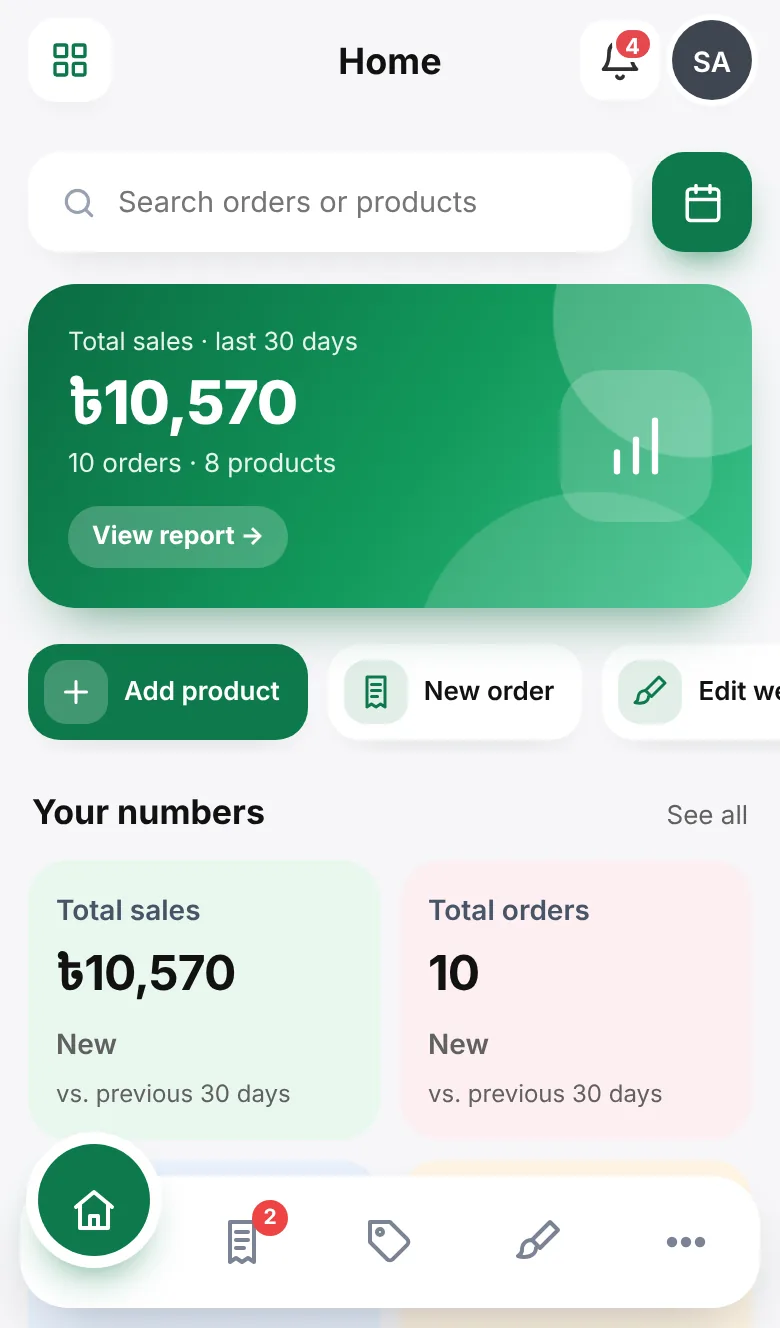
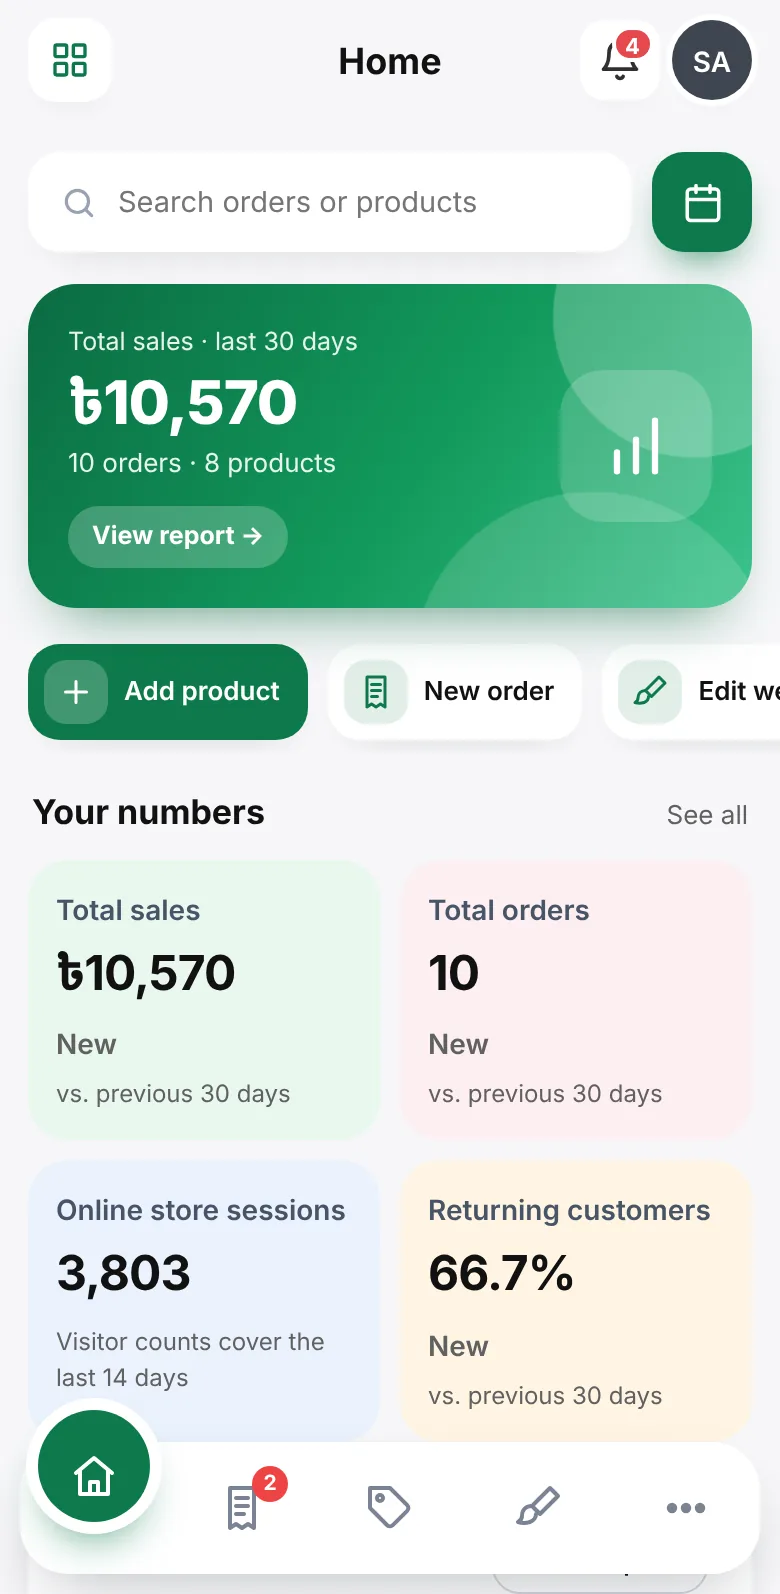
Home showcase: real iPhone-shaped phone; side by side on desktop, stacked on phones
Claude-Session: https://claude.ai/code/session_01R3uzDZf54dpsWCJGHMkyhq

diff --git a/src/styles/main.css b/src/styles/main.css
@@ -222,11 +222,16 @@ button { font: inherit; cursor: pointer; }
 
 /* dashboard */
 /* The dashboard on a computer (left) and on a phone (right, overlapping it) */
-.dash { position: absolute; left: 0; right: 200px; top: 6px; height: 418px; overflow: hidden; z-index: 1; background: #f9fafb; }
-.device-phone { position: absolute; right: 24px; top: -18px; z-index: 3; width: 214px; padding: 9px; border-radius: 38px; background: #12151c;
+.dash { position: absolute; left: 0; right: 232px; top: 6px; height: 418px; overflow: hidden; z-index: 1; background: #f9fafb; }
+/* An iPhone-shaped frame (19.5:9) beside the desktop shot */
+.device-phone { position: absolute; right: 0; top: -14px; z-index: 3; width: 206px; padding: 8px; border-radius: 40px; background: #12151c;
   box-shadow: 0 0 0 2px #2b303b inset, 0 30px 60px -20px rgba(16, 24, 40, .45), 0 12px 24px -12px rgba(16, 24, 40, .3); }
-.device-phone img { display: block; width: 100%; height: auto; border-radius: 30px; background: #f7f7f9; }
-.device-notch { position: absolute; top: 15px; left: 50%; z-index: 1; width: 64px; height: 18px; margin-left: -32px; border-radius: 999px; background: #12151c; }
+.device-screen { position: relative; overflow: hidden; border-radius: 32px; background: #f7f7f9; aspect-ratio: 390 / 844; }
+.device-screen img { display: block; width: 100%; height: auto; }
+.device-status { height: 5.57%; display: flex; align-items: center; justify-content: space-between; padding: 0 9% 0 11%; background: #f7f7f9; color: #12151c; }
+.device-status b { font-size: 11px; font-weight: 600; letter-spacing: -.01em; }
+.device-status svg { width: 26px; height: 8px; fill: currentColor; }
+.device-notch { position: absolute; top: 1.3%; left: 50%; width: 31%; height: 3.4%; transform: translateX(-50%); border-radius: 999px; background: #12151c; }
 .dash-bar { height: 30px; display: flex; align-items: center; gap: 6px; padding: 0 14px; border-bottom: 1px solid #f1f2f5; }
 .dash-bar i { width: 8px; height: 8px; border-radius: 50%; }
 .dash-bar i:nth-child(1) { background: #ff5f57; }
@@ -488,10 +493,13 @@ button { font: inherit; cursor: pointer; }
   .try-grid { grid-template-columns: 1fr 1fr; }
   .showcase { height: auto; display: flex; justify-content: center; }
   .picker, .phone { display: none; }
-  .dash { position: relative; left: auto; right: auto; width: 100%; max-width: 720px; height: auto; margin-right: 16%; }
-  .device-phone { right: max(0px, calc(50% - 400px)); top: auto; bottom: -26px; width: 26%; max-width: 190px; padding: 6px; border-radius: 26px; }
-  .device-phone img { border-radius: 21px; }
-  .device-notch { top: 10px; width: 40px; height: 11px; margin-left: -20px; }
+  /* Tablets: the desktop shot and the phone side by side */
+  .showcase { align-items: center; gap: 20px; padding: 0 20px; }
+  .dash { position: relative; left: auto; right: auto; top: auto; flex: 1; min-width: 0; max-width: 720px; height: auto; }
+  .device-phone { position: relative; right: auto; top: auto; flex: none; width: 24%; max-width: 190px; padding: 6px; border-radius: 30px; }
+  .device-screen { border-radius: 25px; }
+  .device-status b { font-size: 9px; }
+  .device-status svg { width: 21px; height: 7px; }
   .dash-shot { height: auto; }
 }
 @media (max-width: 760px) {
@@ -504,14 +512,13 @@ button { font: inherit; cursor: pointer; }
   .watch { position: static; transform: none; display: flex; align-items: center; gap: 14px; }
   .watch-note { position: static; transform: none; font-size: 19px; }
   .watch-note svg { display: none; }
-  /* Phones: the desktop shot on the left, the phone overlapping its bottom-right corner,
-     with room underneath so the phone never runs into the next section */
-  .showcase { margin: 30px auto 0; padding-bottom: 46px; justify-content: flex-start; }
-  .dash { margin-right: 20%; border-radius: 14px; box-shadow: 0 14px 34px -18px rgba(16, 24, 40, .35); }
-  .device-phone { right: 0; bottom: 0; width: 34%; max-width: 150px; padding: 5px; border-radius: 24px;
-    box-shadow: 0 0 0 1.5px #2b303b inset, 0 16px 30px -14px rgba(16, 24, 40, .5); }
-  .device-phone img { border-radius: 19px; }
-  .device-notch { top: 9px; width: 34px; height: 9px; margin-left: -17px; }
+  /* Phones: the desktop shot on top, the phone app under it */
+  .showcase { margin: 30px auto 0; padding: 0; flex-direction: column; align-items: center; gap: 26px; }
+  .dash { width: 100%; flex: none; border-radius: 14px; box-shadow: 0 14px 34px -18px rgba(16, 24, 40, .35); }
+  .device-phone { width: 66%; max-width: 250px; padding: 7px; border-radius: 40px; }
+  .device-screen { border-radius: 33px; }
+  .device-status b { font-size: 12px; }
+  .device-status svg { width: 28px; height: 9px; }
   .trusted { padding-top: 26px; }
   .trusted h6 { letter-spacing: .14em; line-height: 1.6; }
   .logo-marquee, .logo-track { gap: 36px; }

diff --git a/src/components/site/HomeContent.tsx b/src/components/site/HomeContent.tsx
@@ -41,8 +41,13 @@ export default function HomeContent() {
           </div>
           {/* The same dashboard on a phone */}
           <div className="device-phone" aria-hidden="true">
-            <span className="device-notch" />
-            <img src="/assets/dashboard-mobile.webp" width="780" height="1328" alt="" loading="lazy" decoding="async" />
+            <div className="device-screen">
+              <div className="device-status">
+                <b>9:41</b><span className="device-notch" />
+                <svg viewBox="0 0 46 12"><rect x="0" y="7" width="3" height="5" rx="1" /><rect x="5" y="5" width="3" height="7" rx="1" /><rect x="10" y="2.5" width="3" height="9.5" rx="1" /><rect x="15" y="0" width="3" height="12" rx="1" /><rect x="23.5" y=".75" width="19" height="10.5" rx="3" fill="none" stroke="currentColor" strokeWidth="1.2" opacity=".45" /><rect x="25.5" y="2.75" width="13" height="6.5" rx="1.6" /><rect x="43.6" y="4" width="1.6" height="4" rx=".8" opacity=".45" /></svg>
+              </div>
+              <img src="/assets/dashboard-mobile.webp" width="780" height="1594" alt="" loading="lazy" decoding="async" />
+            </div>
           </div>
         </div>
       </section>
